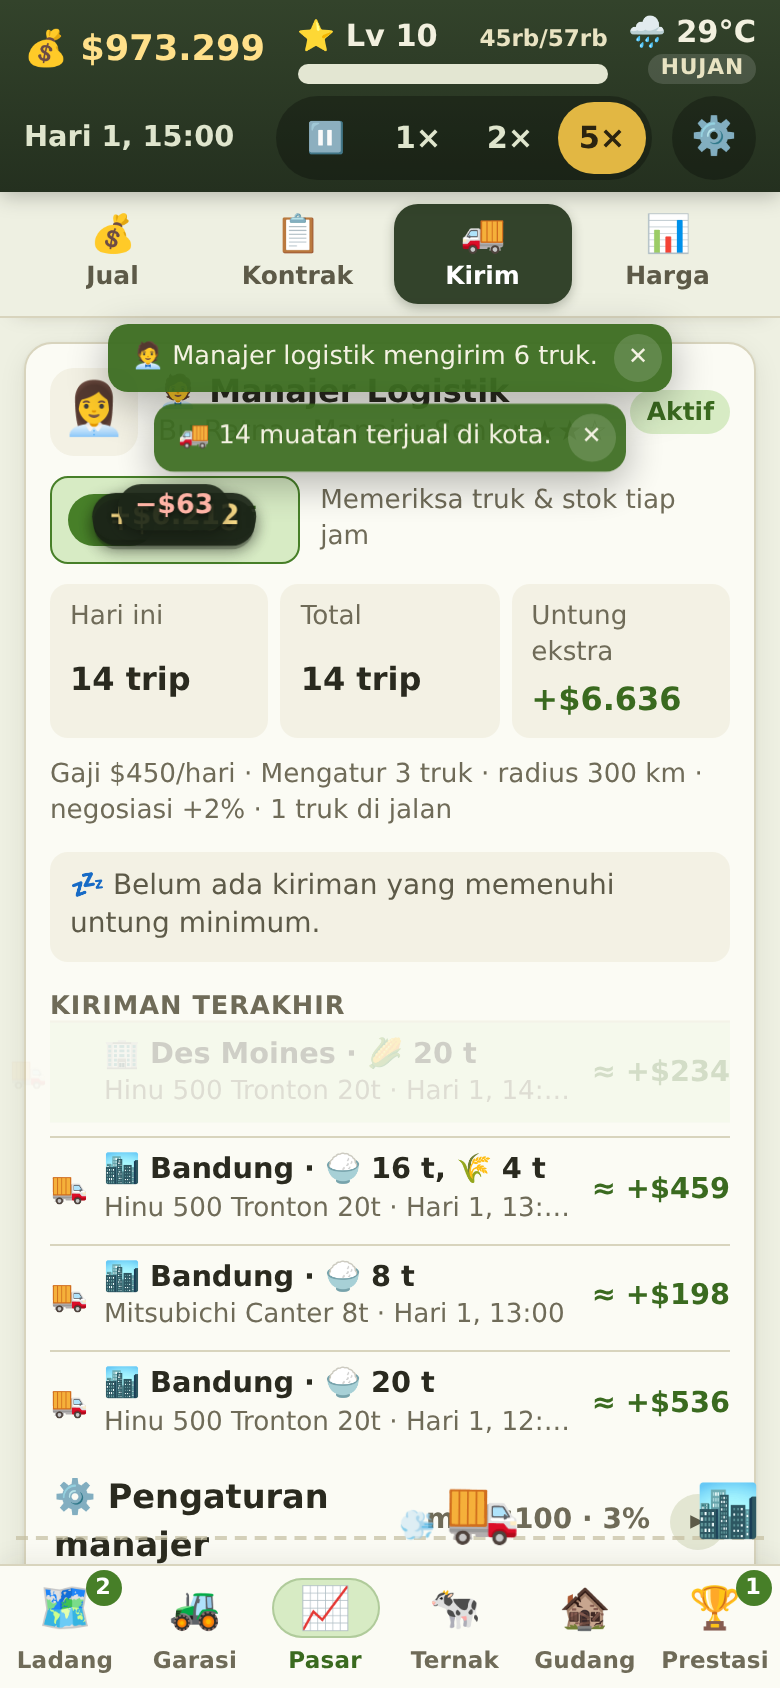
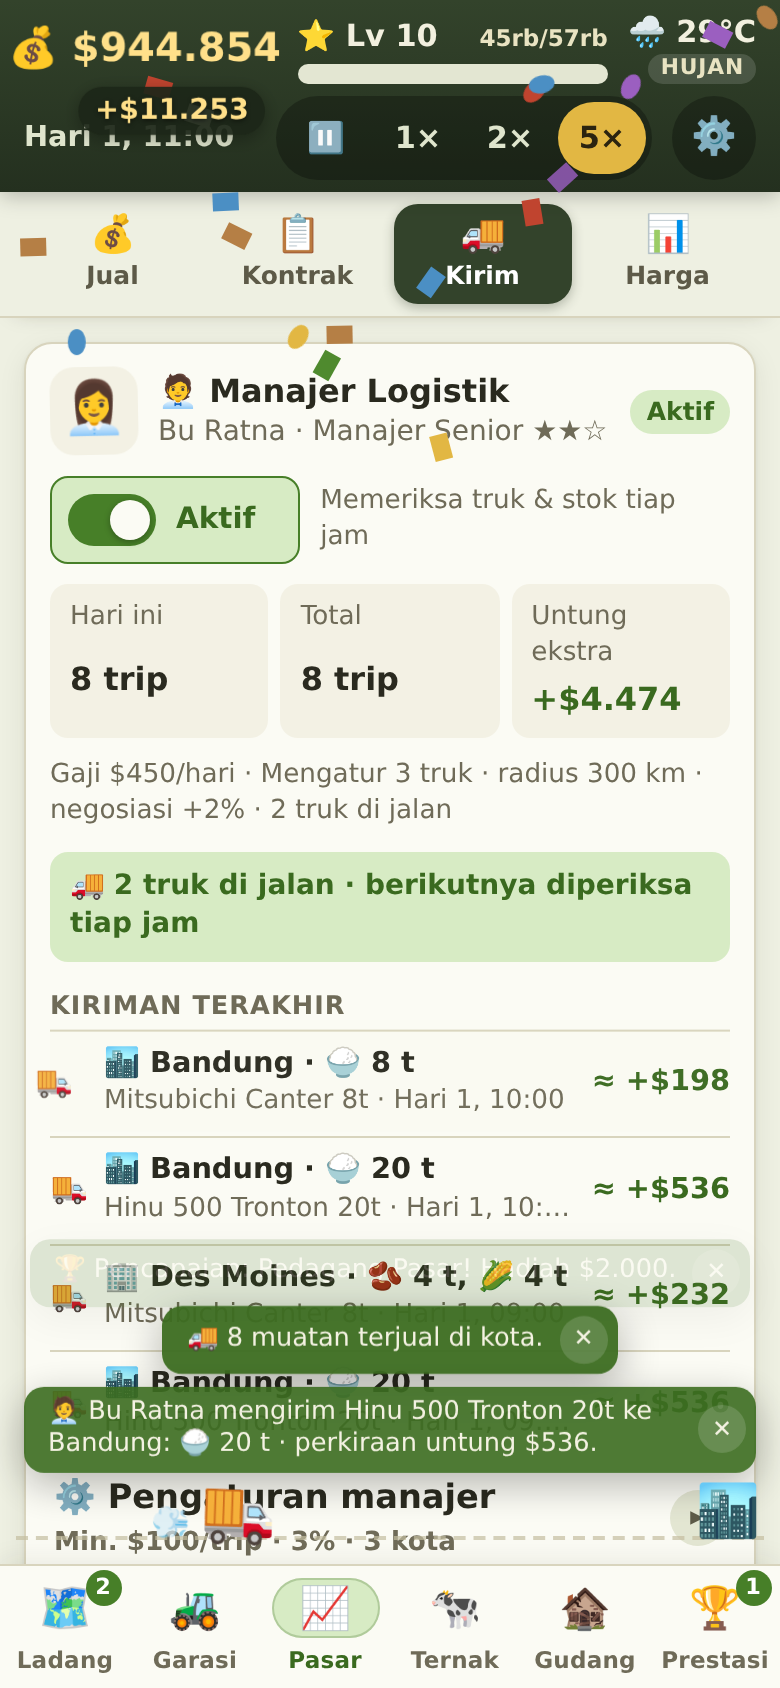
Manajer Logistik: perbaikan tumpang tindih

diff --git a/js/ui/fx.js b/js/ui/fx.js
@@ -19,11 +19,17 @@ function fxLayer() {
 export function floatText(anchor, text, kind = '') {
   const r = anchor?.getBoundingClientRect?.();
   let p = r ? { x: r.left + r.width / 2, y: r.top + r.height / 2 } : anchor;
-  // Topbar pills: below the topbar (and below any visible toasts), clamped inside the viewport.
-  if (kind.includes('top') && p) p = { x: Math.min(Math.max(p.x, 48), window.innerWidth - 48), y: belowChrome() };
+  // Top-bar pills stay inside the top bar: just under the money (over the date text, left of the speed buttons),
+  // XP one line lower, so they never land on cards, switches or toasts.
+  if (kind.includes('top') && r) {
+    const barBottom = document.getElementById('topbar')?.getBoundingClientRect().bottom ?? Infinity;
+    p = { x: Math.max(p.x, 48), y: Math.min(r.bottom + 9 + (kind.includes('xp') ? 18 : 0), barBottom - 12) };
+  }
   if (!p || (r && !r.width)) return;
   const L = fxLayer();
   if (L.childElementCount > 24) return; // offline catch-up bursts: don't flood
+  // Top-bar pills replace the previous one of the same kind instead of piling up on the same spot.
+  if (kind.includes('top')) for (const old of L.querySelectorAll(`.fx-float.${kind.includes('xp') ? 'xp' : 'top:not(.xp)'}`)) old.remove();
   const el = document.createElement('div');
   el.className = `fx-float${kind ? ` ${kind}` : ''}`;
   el.textContent = text;
@@ -32,15 +38,6 @@ export function floatText(anchor, text, kind = '') {
   el.addEventListener('animationend', () => el.remove());
   L.appendChild(el);
   setTimeout(() => el.remove(), 2000);
-}
-
-/** Lowest edge of the top chrome (top bar, sticky sub-tab bar, visible toasts) so floats never cover their buttons. */
-function belowChrome() {
-  let y = document.getElementById('topbar')?.getBoundingClientRect().bottom ?? 0;
-  const sub = document.querySelector('#view .subtabs')?.getBoundingClientRect();
-  if (sub?.height && sub.top <= y + 1) y = Math.max(y, sub.bottom);
-  for (const t of document.querySelectorAll('#toast-root .toast:not(.leaving)')) y = Math.max(y, t.getBoundingClientRect().bottom);
-  return y + 6;
 }
 
 const COLORS = ['#e2b743', '#4f8a2e', '#c0442f', '#4b8fc4', '#f2f0df', '#b57f45', '#9b5fc0'];
@@ -132,7 +129,7 @@ export function tickMoneyFx(game, now = performance.now()) {
       void moneyEl.offsetWidth;
       if (pendingMoney > 0) moneyEl.parentElement?.classList.add('fx-bump');
     }
-    if (pendingXp >= 1) floatText(document.getElementById('xpbar') ?? moneyEl, `+${fmtNum(pendingXp)} XP`, 'xp top');
+    if (pendingXp >= 1) floatText(moneyEl, `+${fmtNum(pendingXp)} XP`, 'xp top');
     pendingMoney = 0;
     pendingXp = 0;
   }

diff --git a/js/ui/dispatcher.js b/js/ui/dispatcher.js
@@ -74,9 +74,9 @@ function productRow(p, s, steps) {
 function settingsFold(v) {
   const s = v.settings, steps = v.steps;
   const maxTrucks = Math.max(1, Math.min(v.hired.trucks, v.trucks));
-  const summary = `min ${fmtMoney(s.minProfit)} · ${s.minMargin}%`;
+  const summary = `Min. ${fmtMoney(s.minProfit)}/trip · ${s.minMargin}% · ${v.cities.filter((c) => c.allowed && c.inRange).length} kota`;
   const prods = v.products;
-  return fold('disp-settings', '⚙ Pengaturan manajer', { meta: summary, cls: 'boxed disp-settings' },
+  return fold('disp-settings', [h('span.disp-fold-name', '⚙ Pengaturan manajer'), h('span.disp-fold-sum', summary)], { cls: 'boxed disp-settings' },
     h('div.disp-set-title', 'Kelompok produk yang boleh dikirim'),
     h('div.disp-chips', CATEGORIES.map((c) => chip(`${c.icon} ${c.label}`, s.groups[c.id], () => set({ groups: { [c.id]: !s.groups[c.id] } })))),
     h('div.disp-set-title', 'Kota tujuan'),
@@ -104,6 +104,12 @@ function recentRow(r, fresh) {
     h(`span.num.${r.estProfit >= 0 ? 'pos' : 'neg'}`, `≈ +${fmtMoney(r.estProfit)}`));
 }
 
+/** Moving trucks first (positive state); the waiting reason only when nothing is on the road. */
+function statusLine(v) {
+  if (v.onRoad) return h('div.disp-moving', `🚚 ${v.onRoad} truk di jalan · berikutnya diperiksa tiap jam`);
+  return v.note ? h('div.disp-wait', `💤 ${v.note}`) : null;
+}
+
 function hiredBody(v) {
   const hd = v.hired;
   const newest = v.recent[0]?.shipmentId ?? null;
@@ -120,7 +126,7 @@ function hiredBody(v) {
       h('div.disp-stat', h('span.small.muted', 'Total'), h('b', `${fmtNum(v.stats.trips)} trip`)),
       h('div.disp-stat', h('span.small.muted', 'Untung ekstra'), h('b.pos', `+${fmtMoney(v.stats.extraProfit)}`))),
     h('div.small.muted', `Gaji ${fmtMoney(hd.wagePaid)}/hari · ${tierLine(hd)} · ${v.onRoad} truk di jalan`),
-    v.on && v.note ? h('div.disp-wait', `💤 ${v.note}`) : null,
+    v.on ? statusLine(v) : null,
     v.sellPlans ? h('div.disp-warn', `⚠ ${v.sellPlans} rencana ladang menjual otomatis saat panen, jadi hasilnya tidak sempat dikirim. Matikan 💰 Jual otomatis di rencana ladang.`) : null,
     v.recent.length ? h('div.disp-recent', h('div.disp-set-title', 'Kiriman terakhir'), v.recent.slice(0, 4).map((r, i) => recentRow(r, fresh && i === 0)))
       : h('p.small.muted', 'Belum ada kiriman otomatis. Untung = harga kota − jual lokal − BBM − sopir − aus truk.'),

diff --git a/css/style.css b/css/style.css
@@ -572,7 +572,7 @@ label { font-size: .85rem; color: var(--ink-soft); font-weight: 600; }
   position: fixed;
   left: 0;
   right: 0;
-  top: calc(var(--top-h, 84px) + 8px);
+  bottom: calc(var(--nav-h) + var(--safe-b) + 46px); /* above the bottom tabs and the truck lane (fx.js truckDepart) */
   z-index: 60;
   display: flex;
   flex-direction: column;
@@ -599,10 +599,10 @@ label { font-size: .85rem; color: var(--ink-soft); font-weight: 600; }
   font-weight: 500;
   animation: toast-in .2s ease;
 }
-/* With a modal open, toasts sit over the dimmed topbar so they never cover the sheet header/✕. */
-/* Below the sticky sub-tab bar, so a toast's ✕ never sits on a sub-tab. */
-body:not(.modal-open):has(#view .subtabs) #toast-root { top: calc(var(--top-h, 84px) + 66px); }
-body.modal-open #toast-root { top: calc(8px + env(safe-area-inset-top, 0px)); }
+/* Toasts stack upward just above the bottom tabs, away from card headers, switches and sub-tabs at the top.
+   With a modal open (sheet covers the bottom), they sit over the dimmed topbar so they never cover the sheet header/✕. */
+body.modal-open #toast-root { top: calc(8px + env(safe-area-inset-top, 0px)); bottom: auto; }
+body.modal-open .toast { animation-name: toast-in-top; }
 .toast-msg { flex: 1; min-width: 0; }
 .toast .btn { pointer-events: auto; flex: none; }
 .pwa-install { margin: 6px 0; }
@@ -622,8 +622,10 @@ body.modal-open #toast-root { top: calc(8px + env(safe-area-inset-top, 0px)); }
 .toast.success { background: rgba(60, 109, 33, .95); }
 .toast.error { background: rgba(155, 51, 34, .95); }
 .toast.warn { background: rgba(138, 106, 18, .95); }
-.toast.leaving { opacity: 0; transform: translateY(-8px); transition: opacity .25s, transform .25s; }
-@keyframes toast-in { from { opacity: 0; transform: translateY(-10px); } }
+.toast.leaving { opacity: 0; transform: translateY(8px); transition: opacity .25s, transform .25s; }
+body.modal-open .toast.leaving { transform: translateY(-8px); }
+@keyframes toast-in { from { opacity: 0; transform: translateY(10px); } }
+@keyframes toast-in-top { from { opacity: 0; transform: translateY(-10px); } }
 
 /* ---------- Bottom nav ---------- */
 #tabs {

diff --git a/css/juice.css b/css/juice.css
@@ -151,7 +151,7 @@
   text-shadow: 0 1px 2px rgba(0, 0, 0, .45); animation: float-up 1.3s ease-out forwards;
 }
 .fx-float.harvest { padding: 2px 10px; border-radius: 999px; background: rgba(60, 109, 33, .92); font-size: .9rem; animation-name: float-plot; }
-.fx-float.top { animation-name: float-below; font-size: .85rem; padding: 2px 8px; border-radius: 999px; background: rgba(28, 38, 24, .92); box-shadow: 0 2px 8px rgba(0, 0, 0, .3); }
+.fx-float.top { animation-name: float-bar; font-size: .85rem; padding: 2px 8px; border-radius: 999px; background: rgba(28, 38, 24, .92); box-shadow: 0 2px 8px rgba(0, 0, 0, .3); }
 .fx-float.gain { color: #ffe08a; }
 .fx-float.loss { color: #ffb4a6; font-size: .8rem; }
 .fx-float.xp { color: #bfe6ff; font-size: .8rem; }
@@ -160,7 +160,7 @@
 .stat-money.fx-bump { animation: bump .45s ease-out; }
 
 @keyframes float-up { 0% { opacity: 0; transform: translate(-50%, -30%) scale(.7); } 15% { opacity: 1; transform: translate(-50%, -60%) scale(1.1); } 100% { opacity: 0; transform: translate(-50%, -260%); } }
-@keyframes float-below { 0% { opacity: 0; transform: translate(-50%, -6px) scale(.8); } 15% { opacity: 1; transform: translate(-50%, 0) scale(1.05); } 80% { opacity: 1; } 100% { opacity: 0; transform: translate(-50%, 10px); } }
+@keyframes float-bar { 0% { opacity: 0; transform: translate(-50%, 4px) scale(.8); } 15% { opacity: 1; transform: translate(-50%, 0) scale(1.05); } 80% { opacity: 1; } 100% { opacity: 0; transform: translate(-50%, -6px); } }
 @keyframes float-plot { 0% { opacity: 0; transform: translate(-50%, -20%) scale(.7); } 15% { opacity: 1; transform: translate(-50%, -50%) scale(1.1); } 80% { opacity: 1; } 100% { opacity: 0; transform: translate(-50%, -90%); } }
 @keyframes confetti {
   0% { transform: translate(0, 0) rotate(0); opacity: 1; }

diff --git a/css/logistics.css b/css/logistics.css
@@ -66,6 +66,10 @@
 .disp-wait, .disp-warn { padding: 8px 10px; border-radius: var(--radius-s); font-size: .875rem; }
 .disp-wait { background: var(--surface-2); color: var(--ink-soft); display: flex; align-items: center; gap: 8px; flex-wrap: wrap; }
 .disp-warn { background: var(--orange-l); color: var(--warn-ink); }
+.disp-moving { padding: 8px 10px; border-radius: var(--radius-s); font-size: .875rem; font-weight: 600; background: var(--green-l); color: var(--green-d); }
+.disp-settings > summary .fold-title { display: grid; gap: 2px; }
+.disp-fold-name { white-space: nowrap; overflow: hidden; text-overflow: ellipsis; }
+.disp-fold-sum { font-size: .82rem; font-weight: 600; color: var(--ink-mute); }
 .disp-set-title { font-size: .8rem; font-weight: 800; letter-spacing: .04em; text-transform: uppercase; color: var(--ink-mute); margin-top: 4px; }
 .disp-recent { display: grid; grid-template-columns: minmax(0, 1fr); gap: 2px; }
 .disp-recent-row { display: flex; align-items: center; gap: 8px; padding: 6px 0; border-top: 1px solid var(--line); }

diff --git a/sw.js b/sw.js
@@ -2,7 +2,7 @@
 // cached index.html as offline fallback. A new version waits until the page asks it to take over
 // (toast "Versi baru tersedia" in js/ui/pwa.js). After changing any file, regenerate VERSION and
 // PRECACHE with the command in README → "Pasang di HP (PWA)".
-const VERSION = "de1a741165";
+const VERSION = "2fe9ac69ca";
 const PREFIX = 'farm-manager-';
 const CACHE = PREFIX + VERSION;
 const PRECACHE = [

diff --git a/README.md b/README.md
@@ -292,7 +292,7 @@ Ladang di wilayah baru terkunci sampai levelnya tercapai (pin 🔒 Lv N di peta)
 
 ### Notifikasi
 
-Notifikasi muncul di bagian atas, di bawah bar atas dan bilah sub-tab, sehingga tidak menutupi tombol sub-tab maupun tombol di jendela aksi. Saat sebuah jendela terbuka, notifikasi pindah ke atas bar atas agar judul dan tombol ✕ jendela tetap terlihat. Paling banyak dua notifikasi tampil sekaligus. Kejadian yang sama digabung, misalnya "🌾 3 ladang siap panen.", dan setiap notifikasi bisa ditutup dengan ✕. Notifikasi muncul untuk tanaman siap panen, tanaman layu, prestasi, peringatan pakan, kontrak, muatan yang terjual di kota, dan kiriman otomatis Manajer Logistik. Naik level ditampilkan dalam jendela tersendiri. Kejadian rutin seperti tugas selesai, penjualan, dan pembelian hanya dicatat di **Prestasi › 🏆 Prestasi** (📜 Catatan kejadian).
+Notifikasi menumpuk dari bawah, tepat di atas bilah tab (dan di atas lintasan animasi truk), sehingga tidak menutupi bar atas, sub-tab, judul kartu, atau sakelar seperti Aktif/Jeda Manajer Logistik. Saat sebuah jendela terbuka, notifikasi pindah ke atas bar atas agar judul dan tombol ✕ jendela tetap terlihat. Angka uang dan XP yang melayang muncul di bar atas tepat di bawah saldo, tidak di atas isi halaman. Paling banyak dua notifikasi tampil sekaligus. Kejadian yang sama digabung, misalnya "🌾 3 ladang siap panen.", dan setiap notifikasi bisa ditutup dengan ✕. Notifikasi muncul untuk tanaman siap panen, tanaman layu, prestasi, peringatan pakan, kontrak, muatan yang terjual di kota, dan kiriman otomatis Manajer Logistik. Naik level ditampilkan dalam jendela tersendiri. Kejadian rutin seperti tugas selesai, penjualan, dan pembelian hanya dicatat di **Prestasi › 🏆 Prestasi** (📜 Catatan kejadian).
 
 Di layar lebar (≥ 1000 px), tab **Ladang** menampilkan Ladangku dan Peta berdampingan: kartu ladang di kiri, peta di kanan (tetap terlihat saat menggulir). Di ponsel mendatar, bar atas menjadi satu baris.
 
